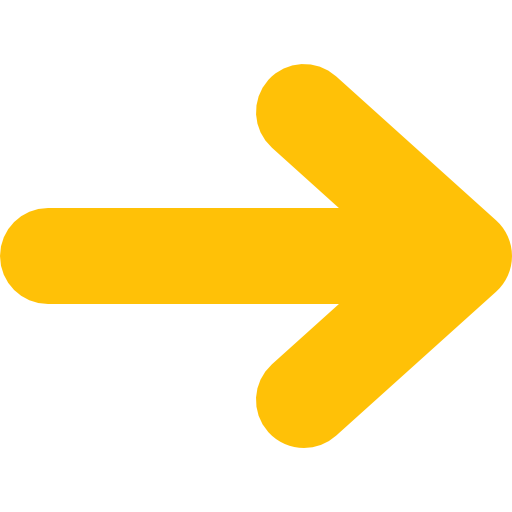
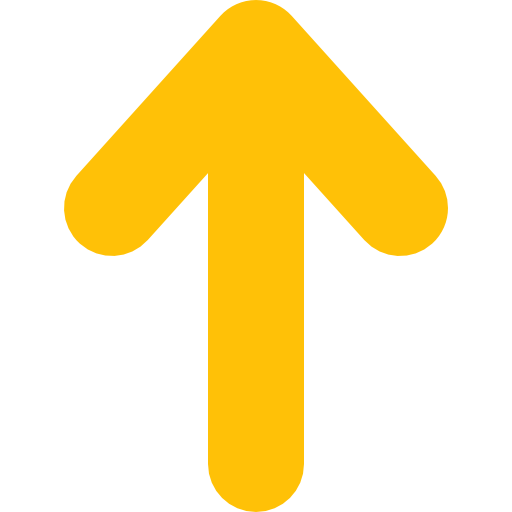
delete arrow desktop

diff --git a/index.html b/index.html
@@ -8,8 +8,8 @@
     <title>Document</title>
     <link rel="stylesheet" href="reset.css">
     <link rel="stylesheet" href="style.css">
-    <link rel="preconnect" href="https://fonts.googleapis.com">
-    <link rel="preconnect" href="https://fonts.gstatic.com" crossorigin>
+    <!-- <link rel="preconnect" href="https://fonts.googleapis.com">
+    <link rel="preconnect" href="https://fonts.gstatic.com" crossorigin> -->
     <link href="https://fonts.googleapis.com/css2?family=Raleway:wght@300&display=swap" rel="stylesheet">
 </head>
 
@@ -70,7 +70,8 @@
         </p>
     </div>
 
-    <div> <a href="#hiveSection" id="arrow"> <img src="./assets/fleche-droite.png" id="arrowImg"> </a></div>
+    <div id="arrowDiv"> <a href="#hiveSection" id="arrow"> <img src="./assets/fleche-droite.png" id="arrowImg"> </a>
+    </div>
 
     <section class="hiveSection" id="hiveSection">
         <h2> La Ruche </h2>

diff --git a/style.css b/style.css
@@ -30,6 +30,12 @@ h1,
     display: none;
 }
 
+
+#arrowDiv {
+    display: none;
+}
+
+
 @font-face {
     font-family: 'beePolice';
     src: url('./assets/DK Abeille.otf');
@@ -651,20 +657,23 @@ img.imagehexaAlexisF {
 @media screen and (max-width:768px) {
 
     #arrow {
-        position: fixed;
-        left: 89%;
-        top: 80%;
-
+        padding: 10%;
+        /* border: 4px solid green; */
     }
 
     #arrowImg {
-        width: 50%;
-        rotate: -90deg;
+        width: 30%;
+        /* border: 1px solid white; */
     }
 
-    body {
-        font-size: 1.3rem;
+    #arrowDiv {
+        display: block;
+        position: fixed;
+        left: 85%;
+        top: 80%;
+        /* rotate: -90deg; */
     }
+
 
     #grid {
         --numberofsquare: 1.5;
